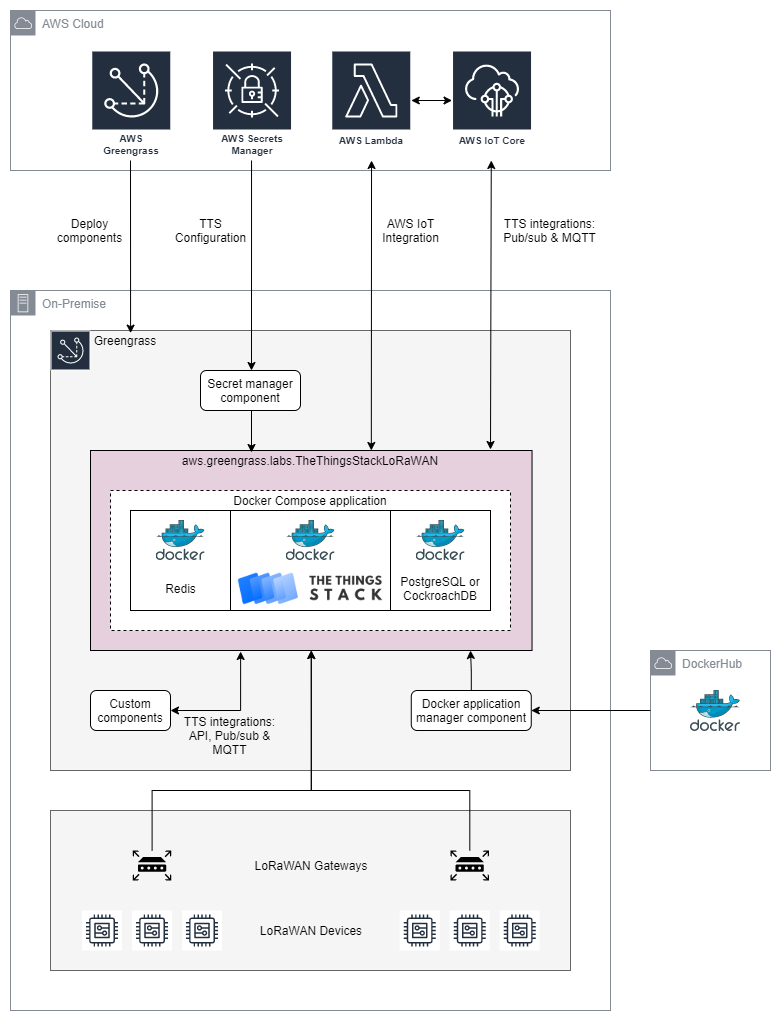
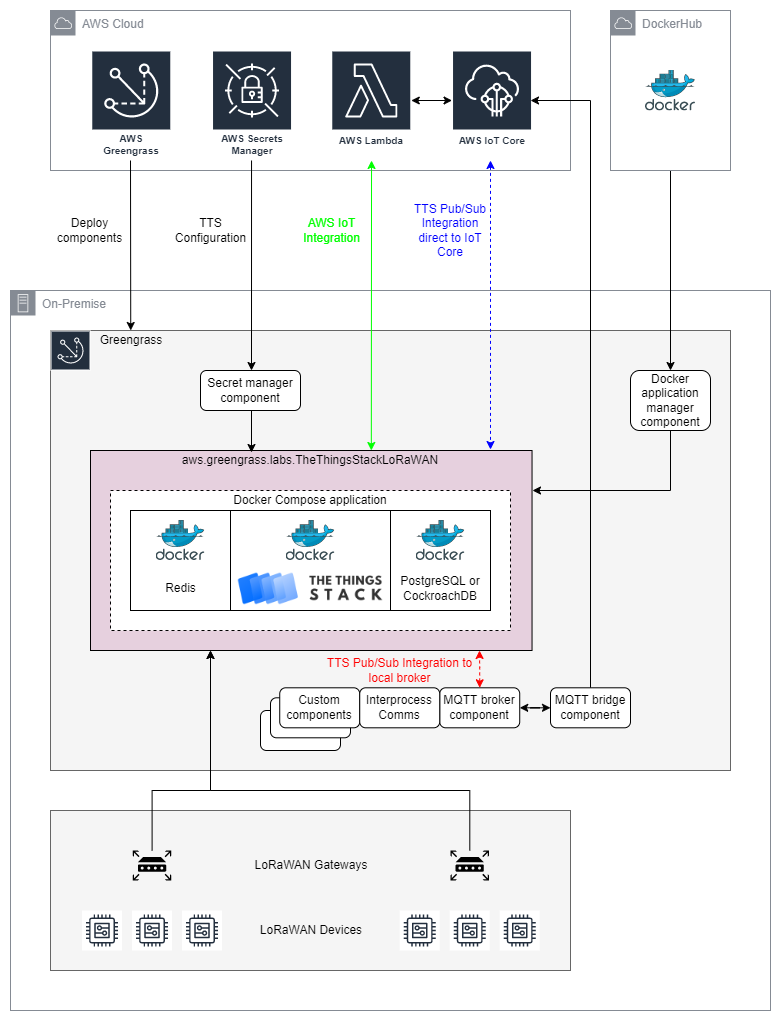
Prerequisites and Moquette Pub/Sub integration

diff --git a/README.md b/README.md
@@ -3,10 +3,12 @@
 [The Things Stack](https://www.thethingsindustries.com/docs/) is an [open-source LoRaWAN stack](https://github.com/TheThingsNetwork/lorawan-stack). Users can deploy the stack as [Open Source](https://hub.docker.com/r/thethingsnetwork/lorawan-stack) (free) or [Enterprise](https://hub.docker.com/r/thethingsindustries/lorawan-stack) (requires a [license](https://accounts.thethingsindustries.com/fee-calculator/)) from images available on Docker Hub.
 
 
-This repository facilitates packaging The Things Stack into an AWS IoT Greengrass V2 component named **aws.greengrass.labs.TheThingsStackLoRaWAN**. This component enables customer use cases that require a private LoRaWAN Network Server (LNS) at the edge. For Enterprise deployments, ingestion into AWS IoT Core can then be achieved by deploying [The Things Stack AWS IoT default integration](https://www.thethingsindustries.com/docs/integrations/aws-iot/default/) into your AWS account. 
+This repository facilitates packaging The Things Stack into an AWS IoT Greengrass V2 component named **aws.greengrass.labs.TheThingsStackLoRaWAN**. This component enables customer use cases that require a private LoRaWAN Network Server (LNS) at the edge. The Things Stack is also offered as [an AWS Marketplace AMI](https://aws.amazon.com/marketplace/pp/prodview-okhh3ofzhqj56). This Greengrass component is a logical equivalent, but pitching at the edge.
 
 
-The Things Stack is also offered as [an AWS Marketplace AMI](https://aws.amazon.com/marketplace/pp/prodview-okhh3ofzhqj56). This Greengrass component is a logical equivalent, but pitching at the edge.
+For Enterprise deployments, ingestion into AWS IoT Core can be achieved by deploying [The Things Stack AWS IoT default integration](https://www.thethingsindustries.com/docs/integrations/aws-iot/default/) into your AWS account. For Open Source deployments, [The Things Stack Pub/Sub integration](https://www.thethingsindustries.com/docs/integrations/pubsub/) is a good option for achieving ingestion into AWS IoT Core.
+
+The Pub/Sub integration can also be used to publish and subscribe to topics on the Greengrass local [Moquette MQTT broker](https://docs.aws.amazon.com/greengrass/v2/developerguide/mqtt-broker-moquette-component.html). This allows integration with the cloud, other Greengrass components on the same device and/or with other devices on the local network. The Things Stack can therefore leverage [AWS-managed Greengrass components](https://docs.aws.amazon.com/greengrass/v2/developerguide/public-components.html), [custom Greengrass components](https://docs.aws.amazon.com/greengrass/v2/developerguide/develop-greengrass-components.html), [community Greengrass components](https://github.com/orgs/awslabs/teams/aws-greengrass-labs/repositories) and AWS services to deliver powerful edge solutions that extend The Things Stack's capabilities.
 
 # Table of Contents
 * [Architecture](#architecture)
@@ -25,6 +27,7 @@ The Things Stack is also offered as [an AWS Marketplace AMI](https://aws.amazon.
     * [Python](#python)
     * [GDK CLI](#gdk-cli)
     * [Bash](#bash)
+    * [jq](#jq)
 * [Getting Started](#getting-started)
   * [Quickstart](#quickstart)
   * [Slowstart](#slowstart)
@@ -38,6 +41,8 @@ The Things Stack is also offered as [an AWS Marketplace AMI](https://aws.amazon.
   * [Production Deployments](#production-deployments)
   * [Image Architecture](#image-architecture)
   * [Pub/Sub Integration](#pubsub-integration)
+    * [AWS IoT Core](#aws-iot-core)
+    * [Greengrass Moquette MQTT Broker](#greengrass-moquette-mqtt-broker)
 * [Operations](#operations)
   * [Clean Uninstall](#clean-uninstall)
   * [Data Backup](#data-backup)
@@ -67,9 +72,11 @@ The Things Stack is delivered as Docker images on Docker Hub. This component dow
 
 The Things Stack configuration includes a considerable amount of sensitive information. Accordingly, the configuration is stored as a secret in [AWS Secrets Manager](https://aws.amazon.com/secrets-manager/). This component gets its configuration from Secrets Manager with the help of the [Secret manager](https://docs.aws.amazon.com/greengrass/v2/developerguide/secret-manager-component.html) managed component. 
 
-For Enterprise deployments, ingestion into AWS IoT Core can be best achieved by deploying [The Things Stack AWS IoT default integration](https://www.thethingsindustries.com/docs/integrations/aws-iot/default/) into your AWS account. 
+The Things Stack offers [an API](https://www.thethingsindustries.com/docs/getting-started/api/) and various [integrations](https://www.thethingsindustries.com/docs/integrations/) that can be used for remote ingestion or control, or can be used by other Greengrass components to achieve local data processing and actions. 
 
-The Things Stack offers [an API](https://www.thethingsindustries.com/docs/getting-started/api/) and various [integrations](https://www.thethingsindustries.com/docs/integrations/) that can be used for remote ingestion or control, or can be used by other Greengrass components to achieve local data processing and actions. The [Pub/Sub integration](https://www.thethingsindustries.com/docs/integrations/pubsub/) is a good option for achieving ingestion into AWS IoT Core from the Open Source edition of The Things Stack.
+For Enterprise deployments, ingestion into AWS IoT Core can be best achieved by deploying [The Things Stack AWS IoT default integration](https://www.thethingsindustries.com/docs/integrations/aws-iot/default/) into your AWS account. This is option is shown in **green** on the architecture diagram.
+
+As shown in **blue**, The Things Stack can use its [Pub/Sub integration](https://www.thethingsindustries.com/docs/integrations/pubsub/) to connect directly to AWS IoT Core. This option would typically only be used for deployments of the Open Source edition of The Things Stack. Alternatively, and more powerfully, the Pub/Sub integration can instead connect to the local Greengrass [Moquette MQTT broker](https://docs.aws.amazon.com/greengrass/v2/developerguide/mqtt-broker-moquette-component.html). This is option is shown in **red**. If The Things Stack and other TCP/IP devices on the local network are registered as [Local Client Devices with Greengrass](https://aws.amazon.com/blogs/iot/implementing-local-client-devices-with-aws-iot-greengrass/), this architecture allows The Things Stack to communicate with those [other devices via the broker](https://docs.aws.amazon.com/greengrass/v2/developerguide/interact-with-local-iot-devices.html) **and** with [other Greengrass components via Greengrass Interprocess Communication](https://docs.aws.amazon.com/greengrass/v2/developerguide/ipc-publish-subscribe.html). Furthermore, the [MQTT bridge](https://docs.aws.amazon.com/greengrass/v2/developerguide/mqtt-bridge-component.html) connects AWS IoT Core as an additional publisher and subscriber, facilitating cloud integration as well.
 
 # Repository Contents
 
@@ -185,6 +192,8 @@ pip3 install -r robot/requirements.txt
 
 Please consider to use a [virtual environment](https://docs.python.org/3/library/venv.html).
 
+[Boto3](https://boto3.amazonaws.com/v1/documentation/api/latest/index.html) is included in the package dependencies and therefore your machine requires appropriate [credentials](https://boto3.amazonaws.com/v1/documentation/api/latest/guide/credentials.html).
+
 ### GDK CLI
 
 This component makes use of the [Greengrass Development Kit (GDK) - Command Line Interface (CLI)](https://github.com/aws-greengrass/aws-greengrass-gdk-cli). This can be installed as follows:
@@ -196,6 +205,17 @@ pip3 install git+https://github.com/aws-greengrass/aws-greengrass-gdk-cli.git
 ### Bash
 
 The **quickstart.sh** and **create_certs.sh** scripts are Bash scripts. If using a Windows machine, you will need a Bash environment.
+
+### jq
+
+The **jq** utility is used by **quickstart.sh**. Release packages for Linux, OS X and Windows are available on the [jq](https://stedolan.github.io/jq/) site.
+
+Alternatively, Ubuntu includes a **jq** package:
+
+```
+sudo apt update
+sudo apt install jq
+```
 
 # Getting Started
 
@@ -327,11 +347,65 @@ The Things Stack images tagged **latest** on Docker Hub are not available for al
 
 ## Pub/Sub Integration
 
-The [Pub/Sub integration](https://www.thethingsindustries.com/docs/integrations/pubsub/) can be used to achieve ingestion into AWS IoT Core. This is particularly useful for the Open Source edition of the stack since the [The Things Stack AWS IoT default integration](https://www.thethingsindustries.com/docs/integrations/aws-iot/default/) is only available for Enterprise deployments. In configuring the Pub/Sub integration, the ***Server URL*** should define the AWS IoT Core endpoint as follows:
+### AWS IoT Core
 
+The [Pub/Sub integration](https://www.thethingsindustries.com/docs/integrations/pubsub/) can be used to achieve ingestion into AWS IoT Core. This is particularly useful for the Open Source edition of the stack since the [The Things Stack AWS IoT default integration](https://www.thethingsindustries.com/docs/integrations/aws-iot/default/) is only available for Enterprise deployments. 
+
+Firstly create a Thing representing The Things Stack, and obtain the device certificate, private key and CA certificate. 
+
+Obtain the AWS IoT Core endpoint:
+
+```bash
+aws iot describe-endpoint --endpoint-type iot:Data-ATS
+{
+    "endpointAddress": "ENDPOINTID-ats.iot.REGION.amazonaws.com"
+}
 ```
-mqtts://ENDPOINTID-ats.iot.ap-REGION.amazonaws.com:8883
-```
+
+Add a Pub/Sub integration in your Application in The Things Stack with the following settings:
+
+| Item                                      | Value                                                               |
+| ----------------------------------------- | ------------------------------------------------------------------- |
+| Provider                                  | MQTT                                                                |
+| MQTT Configuration: Use secure connection | Enabled                                                             |
+| MQTT Configuration: Root CA certificate   | Root CA saved when creating the Thing in AWS IoT Core               |
+| MQTT Configuration: Client certificate    | Device certificate saved when creating the Thing in AWS IoT Core    |
+| MQTT Configuration: Client private key    | Private key saved when creating the Thing in AWS IoT Core           |
+| MQTT Configuration: Server URL            | mqtts://ENDPOINTID-ats.iot.ap-REGION.amazonaws.com:8883             |
+
+### Greengrass Moquette MQTT Broker
+
+Greengrass V2 includes an [AWS-managed Moquette MQTT broker component](https://docs.aws.amazon.com/greengrass/v2/developerguide/mqtt-broker-moquette-component.html). This can be deployed to Greengrass to [allow Greengrass components and devices on your local network to communicate with each other](https://docs.aws.amazon.com/greengrass/v2/developerguide/interact-with-local-iot-devices.html), without relying on an internet connection to AWS IoT Core. 
+
+Using the [Pub/Sub integration](https://www.thethingsindustries.com/docs/integrations/pubsub/), The Things Stack can be a "local IoT device" that connects to the Moquette broker. Additionally, Greengrass V2 includes an [AWS-managed MQTT Bridge component](https://docs.aws.amazon.com/greengrass/v2/developerguide/mqtt-bridge-component.html). When this is also deployed, The Things Stack can use its Pub/Sub Integration to communicate with local devices, Greengrass components and AWS IoT Core; the best of all worlds.
+
+By default, The Things Stack deploys an [MQTT Server](https://www.thethingsindustries.com/docs/integrations/mqtt/) on port **8883**. Prior to deploying the Moquette MQTT broker you must:
+
+1. Remove the MQTT Server from The Things Stack configuration (and re-publish the configuration secret) OR
+2. Move the MQTT Server to a port other than **8883** in The Things Stack configuration (and re-publish the configuration secret) OR
+3. Decide to modify the Moquette MQTT broker component default configuration to run it on a port other than **8883**
+
+Next, [update the Greengrass deployment to add the necessary components](https://docs.aws.amazon.com/greengrass/v2/developerguide/client-devices-tutorial.html) to your Greengrass core device:
+
+* [MQTT broker (Moquette)](https://docs.aws.amazon.com/greengrass/v2/developerguide/mqtt-broker-moquette-component.html)
+* [MQTT bridge](https://docs.aws.amazon.com/greengrass/v2/developerguide/mqtt-bridge-component.html)
+* [Client device auth](https://docs.aws.amazon.com/greengrass/v2/developerguide/client-device-auth-component.html)
+* [IP detector](https://docs.aws.amazon.com/greengrass/v2/developerguide/ip-detector-component.html)
+
+As with connecting to AWS IoT Core, a Thing should be created in AWS IoT Core and the device certificate and private key should be saved. However, instead of the Amazon Root CA certificate being used for authenticating AWS IoT Core, you instead need the CA generated by the component installations; this can be found at **/greengrass/v2/work/aws.greengrass.clientdevices.Auth/ca.pem** on your Greengrass device.
+
+Instead of connecting to the AWS IoT Core endpoint, the Pub/Sub integration shall connect to the local Moquette broker using its IP address (not **localhost**).
+
+Add a Pub/Sub integration in your Application in The Things Stack with the following settings:
+
+| Item                                      | Value                                                               |
+| ----------------------------------------- | ------------------------------------------------------------------- |
+| Provider                                  | MQTT                                                                |
+| MQTT Configuration: Use secure connection | Enabled                                                             |
+| MQTT Configuration: Root CA certificate   | ca.pem copied from your Greengrasss core device                     |
+| MQTT Configuration: Client certificate    | Device certificate saved when creating the Thing in AWS IoT Core    |
+| MQTT Configuration: Client private key    | Private key saved when creating the Thing in AWS IoT Core           |
+| MQTT Configuration: Server URL            | mqtts://xxx.xxx.xxx.xxx:8883 (assuming Moquette runs on 8883)             |
 
 # Operations
 
